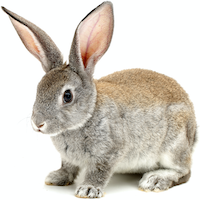
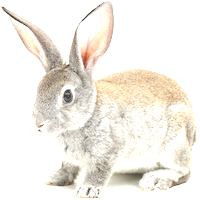
more

diff --git a/projects/Project04/q1.py b/projects/Project04/q1.py
@@ -3,18 +3,24 @@ i = Image.open('rabbit.png')
 
 #Question 1
 #Write functions to increase or decrease the brightness and contrast of an image. Brightness may be achieved by simple addition of each component of each pixel by an appropriate factor, and contrast by multiplication.
+
+def clamp(x):
+    if x < 0: return 0
+    elif x > 255: return 255
+    else: return x
+
 def brightness(p, x):
   r, g, b = p
-  r_out = r
-  g_out = g
-  b_out = b
+  r_out = clamp (int (r + x * 128))
+  g_out = clamp (int (g + x * 128))
+  b_out = clamp (int (b + x * 128))
   return (r_out, g_out, b_out)
 
 def contrast(p, x):
   r, g, b = p
-  r_out = r
-  g_out = g
-  b_out = b
+  r_out = clamp (int (r * x))
+  g_out = clamp (int (g * x))
+  b_out = clamp (int (b * x))
   return (r_out, g_out, b_out)
 
 def process_pixels(f, i):
@@ -35,13 +41,13 @@ def contrast_image(i, x):
     def c(p): return contrast(p, x)
     return process_pixels(c, i)
 
-bright = brightness_image(i, 1.5)
-dim = brightness_image(i, 0.5)
-low_contrast = contrast_image(i, 0.5)
+bright = brightness_image(i, 0.5)
+dim = brightness_image(i, -0.5)
+low_contrast = contrast_image(i, 0.25)
 high_contrast = contrast_image(i, 1.5)
 
 bright.save('bright.png')
 dim.save('dim.png')
-low_contrast.save('low_contrast.png')
-high_contrast.save('high_contrast.png')
+low_contrast.save('lowcontrast.png')
+high_contrast.save('highcontrast.png')
 
